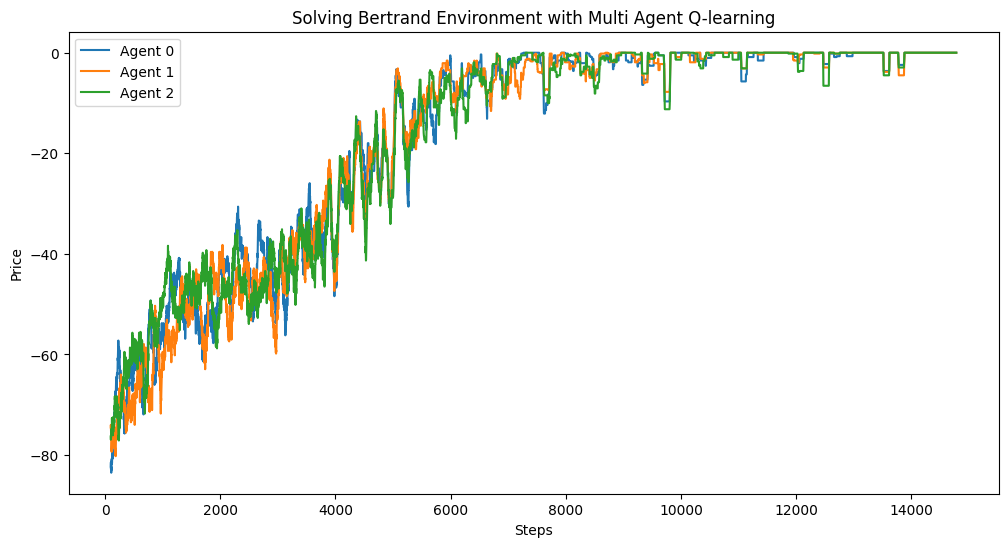
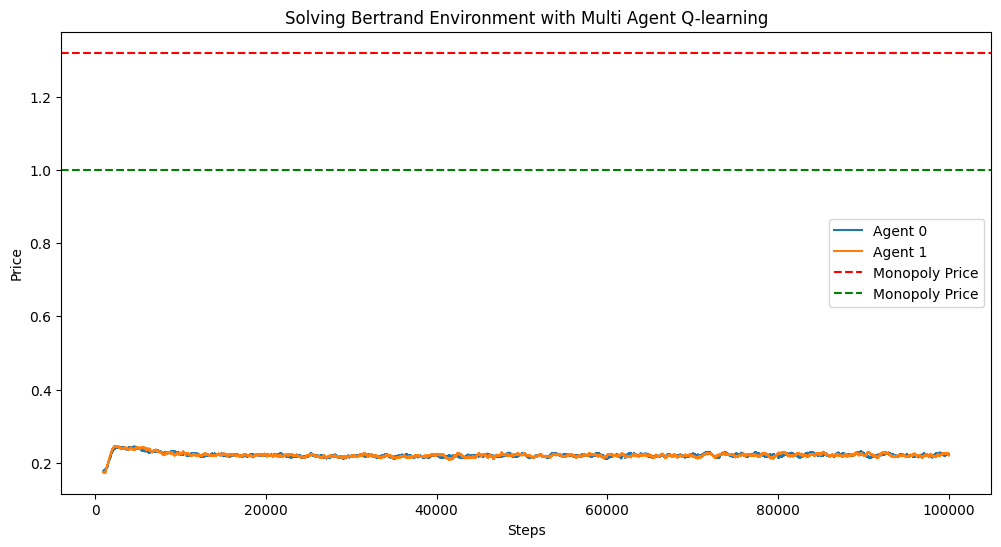
fixed code of optimization

diff --git a/env.py b/env.py
@@ -1,7 +1,7 @@
 import gymnasium as gym
 from gymnasium import spaces
 import numpy as np
-from scipy.optimize import minimize, root
+from scipy.optimize import minimize, root, fsolve
 import matplotlib.pyplot as plt
 from utils.get_rolling import get_rolling
 
@@ -29,27 +29,17 @@ class BertrandEnv(gym.Env):
     # Monopoly Equilibrium Price
     def monopoly_func(p):
         return -(p[0] - self.c) * self.demand(p, 0)
+      
+    self.monopoly_price = minimize(monopoly_func, x0 = 0).x[0]
 
     # Nash Equilibrium Price
-    def nash_func(p):
-        ''' Derivative for demand function '''
-        denominator = np.exp(self.a_0 / self.mu)
-        for i in range(self.N):
-            denominator += np.exp((self.a[i] - p[i]) / self.mu)
-        function_list = []
-        for i in range(self.N):
-            term = np.exp((self.a[i] - p[i]) / self.mu)
-            first_term = term / denominator
-            second_term = (np.exp((2 * (self.a[i] - p[i])) / self.mu) * (-self.c + p[i])) / ((denominator ** 2) * self.mu)
-            third_term = (term * (-self.c + p[i])) / (denominator * self.mu)
-            function_list.append((p[i] - self.c) * (first_term + second_term - third_term))
-        return function_list
+    nash_solution = fsolve(func = self.nash, x0 = (1.0, 1.0))
+    assert all(round(price, 3) == round(nash_solution[0], 3) for price in nash_solution), f"Nash price should be unique: {nash_solution}"
 
-    # Finding root of derivative for demand function
-    nash_sol = root(fun = nash_func, x0 = [2] * N)
-    self.nash_price = nash_sol.x[0]
+    #for i in range(len(solution)):
+      #  print(f'p{i}: {solution[i]}')
 
-    self.monopoly_price = minimize(monopoly_func, x0 = 0).x[0]
+    self.nash_price = nash_solution[0]
     
     print(f'Monopoly Price: {self.monopoly_price}')
     print(f'Nash Price: {self.nash_price}')
@@ -60,6 +50,28 @@ class BertrandEnv(gym.Env):
                             for agent in range(N)]
 
     self.reward_list = []
+
+
+  def nash(self, p):
+
+    #assert len(a) == len(c), "a must be equal size to c"
+    assert len(self.a) == len(p), "a must be equal size to p"
+    #assert len(c) == len(p), "c must be equal size to p"
+
+    sum_denominator = [np.exp((self.a[i] - p[i]) / self.mu) for i in range(len(p))]
+    sum_denominator.append(np.exp(self.a_0 / self.mu))
+    sum_denominator = sum(sum_denominator)
+
+    result = []
+    for i in range(len(p)):
+      first_term = np.exp((self.a[i] - p[i]) / self.mu) / sum_denominator
+      second_term = (np.exp((self.a[i] - p[i])/self.mu) * (p[i] - self.c)) / self.mu * sum_denominator
+      third_term = (p[i] - self.c) / self.mu
+
+      fn = first_term * (1 + second_term - third_term)
+      result.append(fn)
+
+    return result
 
   def obs_sample(self):
     '''

diff --git a/utils/plot.py b/utils/plot.py
@@ -2,19 +2,22 @@ import numpy as np
 import matplotlib.pyplot as plt
 from utils.get_rolling import get_rolling
 
-def plot(env, plots_dir, exp_name, window_size = 100):
+def plot(env, plots_dir, exp_name, window_size = 1000):
 
     history = np.array(env.history)
     plt.figure(figsize = (12, 6))
-    for agent in range(history.shape[1]):
-        series = history[:, agent] # acciones del agente i
-        series = np.array([env._action_to_price[agent][action] for action in series]) # acciones a precios
-        rolling_mean = get_rolling(series, window_size) # media móvil
+    for agent in range(history.shape[1]): # for each agent
+        series = history[:, agent] # actions of agent i
+        series = np.array([env._action_to_price[agent][action] for action in series]) # action to price
+        rolling_mean = get_rolling(series, window_size) # moving average
         
-        plt.plot(range(history.shape[0]), rolling_mean, label = f'Agent {agent}') # plot
-        plt.xlabel('Steps')
-        plt.ylabel('Price')
-        plt.title('Solving Bertrand Environment with Multi Agent Q-learning')
-        plt.legend()
+        plt.plot(range(history.shape[0]), rolling_mean, label = f'Agent {agent}') # plot curve
         
-        plt.savefig(f'{plots_dir}/{exp_name}.png', transparent = False, bbox_inches = 'tight')
+    plt.axhline(y = env.monopoly_price, color = 'r', linestyle = '--', label = 'Monopoly Price') # monopoly price
+    plt.axhline(y = env.nash_price, color = 'g', linestyle = '--', label = 'Monopoly Price') # nash price
+    plt.xlabel('Steps') # x axis label
+    plt.ylabel('Price') # y axis label
+    plt.title('Solving Bertrand Environment with Multi Agent Q-learning') # title
+    plt.legend() # plot
+        
+    plt.savefig(f'{plots_dir}/{exp_name}.png', transparent = False, bbox_inches = 'tight') # save figure

diff --git a/train.py b/train.py
@@ -33,12 +33,8 @@ def train(env, agents, episodes, n_steps, lr, min_epsilon, max_epsilon, decay_ra
             state_idx = agents[idx]._obs_to_state[state]
             newstate_idx = agents[idx]._obs_to_state[new_state]
             Qtable_idx = agents[idx].Qtable
-            #agents[idx].Qtable[state_idx][action[idx]] += lr * (reward[idx] + gamma * np.max(Qtable[new_state, :]) - Qtable[state, action])
             Qtable_idx[state_idx][action[idx]] += lr * (reward[idx] + gamma * np.max(Qtable_idx[newstate_idx]) - Qtable_idx[state_idx][action[idx]])
             agents[idx].Qtable = Qtable_idx
-
-        # Update Q(s,a):= Q(s,a) + lr [R(s,a) + gamma * max Q(s',a') - Q(s,a)]
-        #Qtable[state, action] = Qtable[state, action] + lr * (reward + gamma * np.max(Qtable[new_state, :]) - Qtable[state, action])
 
         # If done, finish the episode
         if done:

diff --git a/utils/parse_args.py b/utils/parse_args.py
@@ -32,6 +32,7 @@ def parse_args():
     # plot arguments
     parser.add_argument('--plots_dir', type = str, default = 'plots', help = 'folder dir to save plot results')
     parser.add_argument('--exp_name', type = str, default = 'bertrand', help = 'name of the experiment')
+    parser.add_argument('--window_size', type = int, default = 1000, help = 'window size of moving average')
     
     # consolidate args
     args = parser.parse_args()

diff --git a/utils/greedy_policy.py b/utils/greedy_policy.py
@@ -2,7 +2,7 @@ import numpy as np
 
 def greedy_policy(Qtable, state):
   '''
-  Método que devuelve la acción con el mayor state-action value
+  Returns the action with the highest state-action value
   '''
   action = np.argmax(Qtable[state])
   
